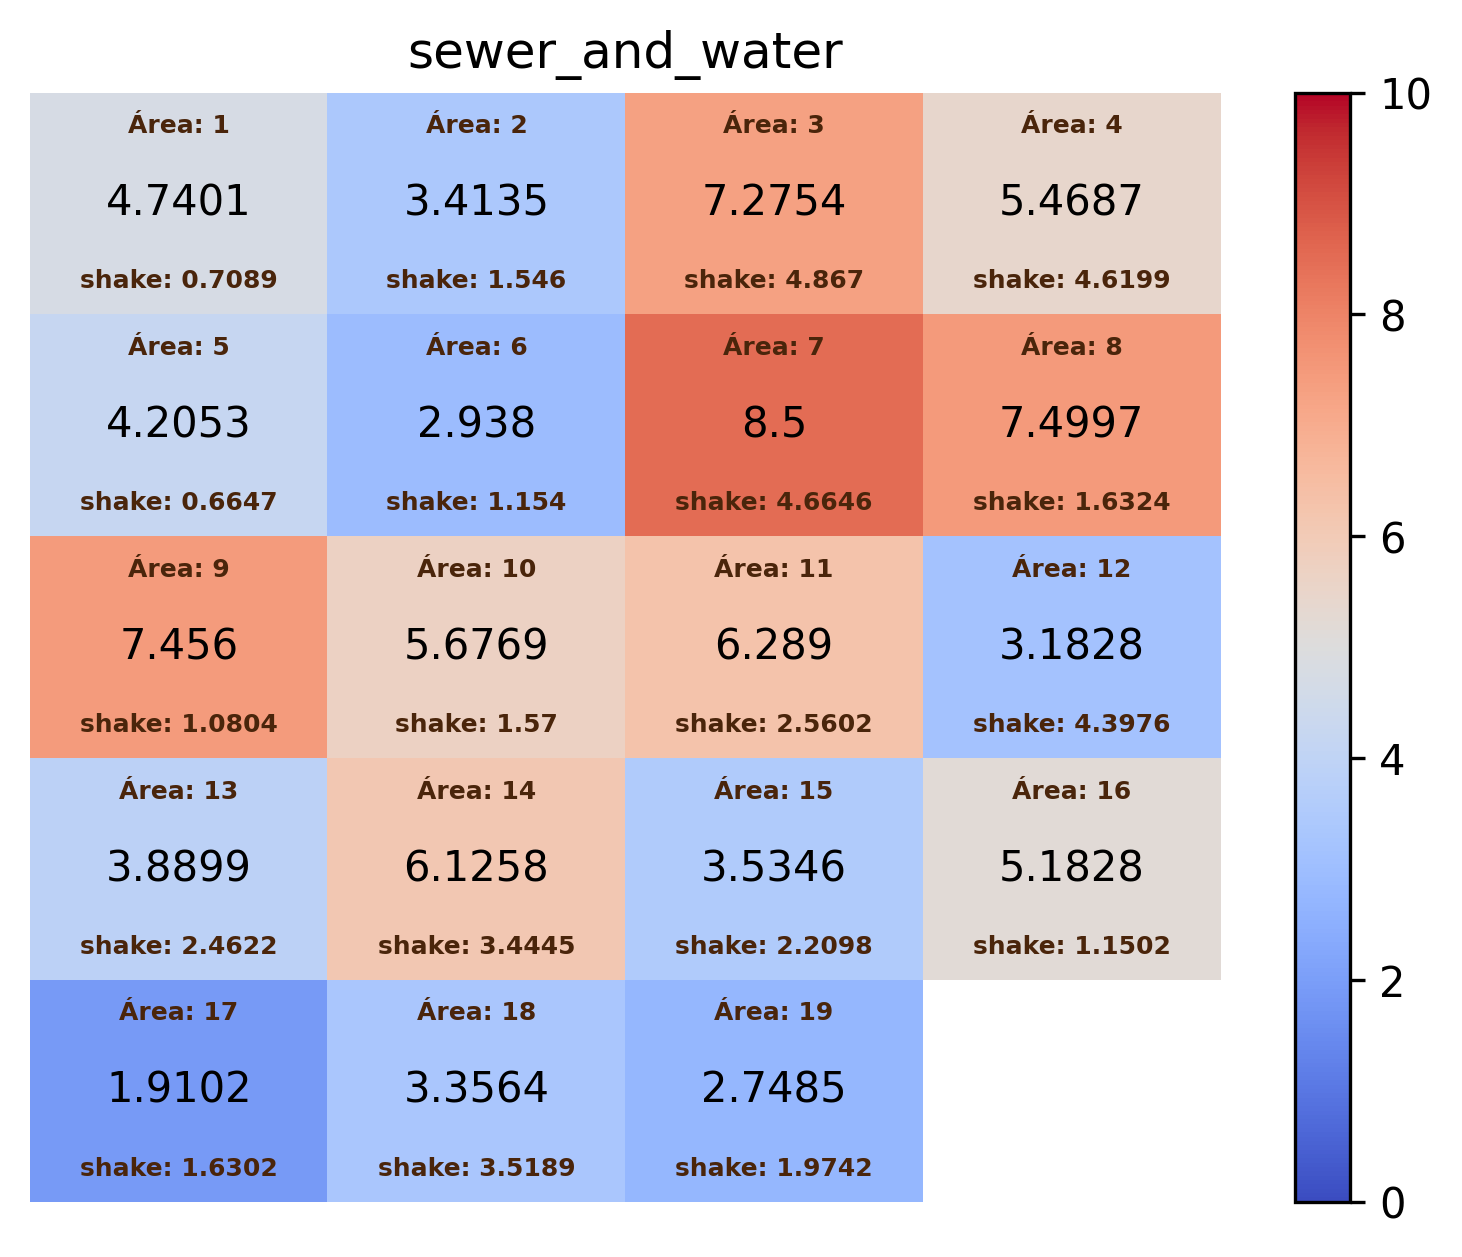
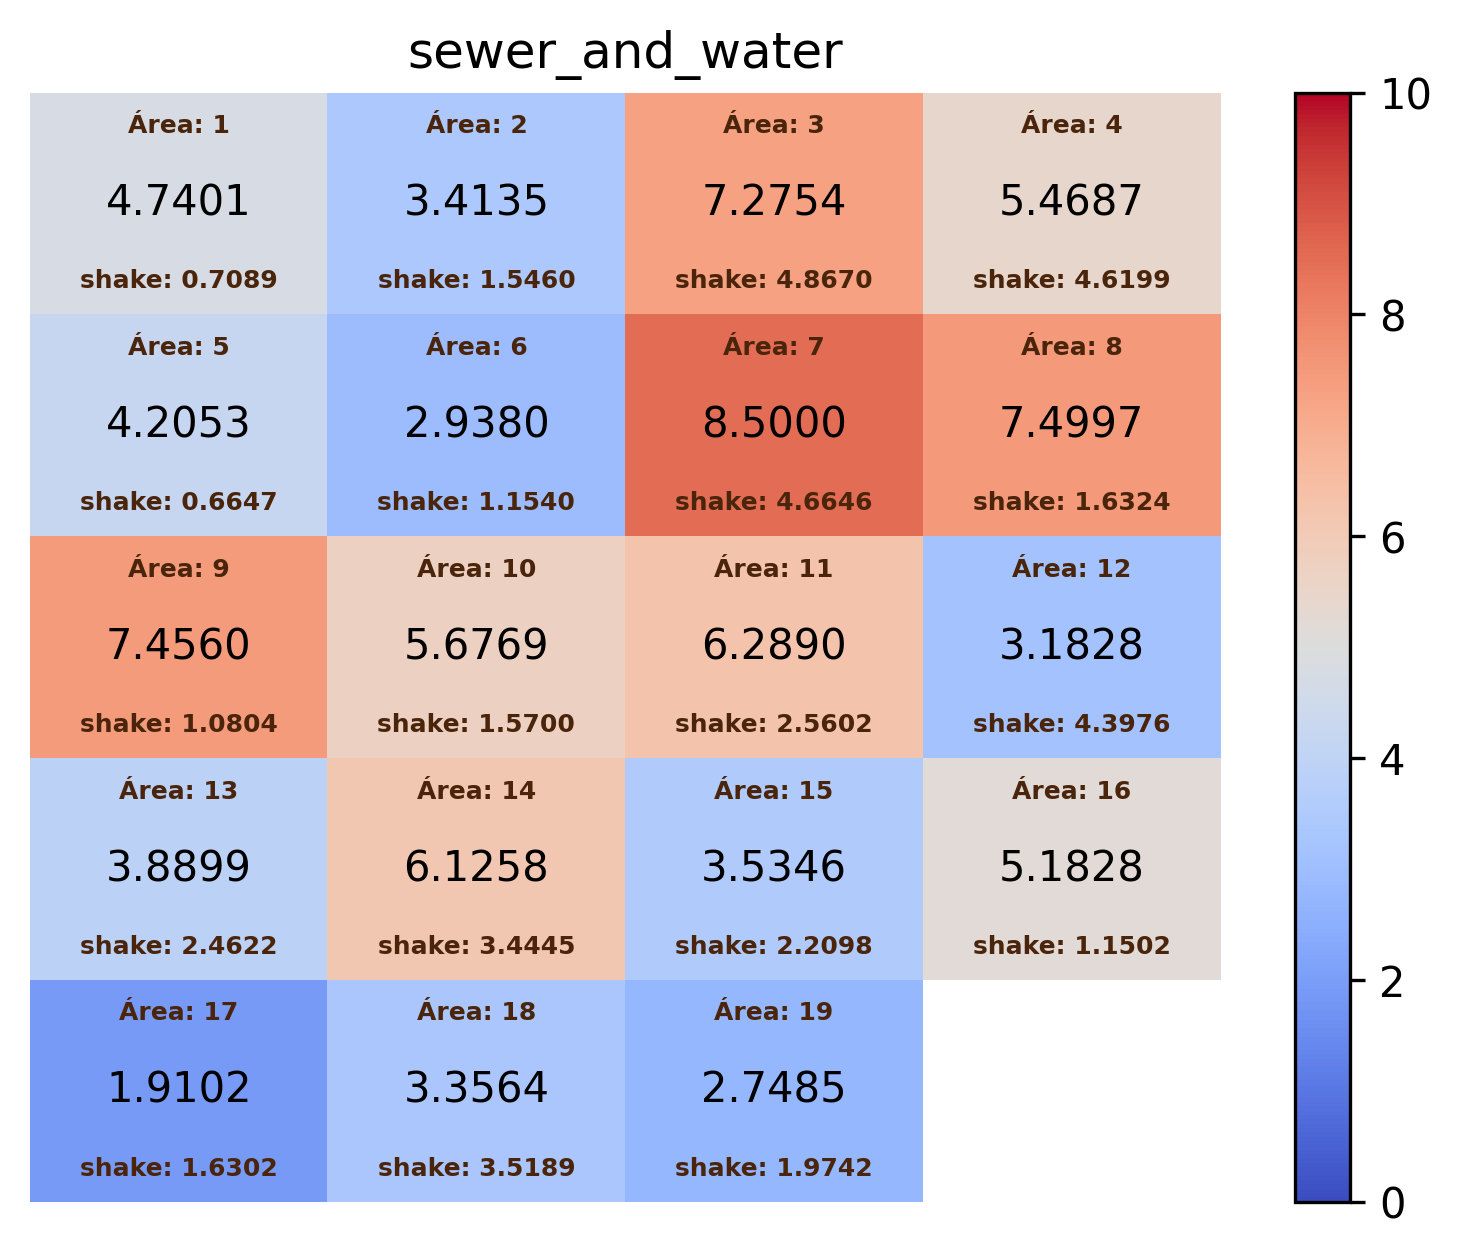
ta pronto

diff --git a/first_problem/heatmap_feedback.py b/first_problem/heatmap_feedback.py
@@ -1,34 +1,6 @@
 import numpy as np
 import matplotlib.pyplot as plt
 
-# ROW = 5
-# COLUMN = 4
-
-# # Dados
-# learning_rates = ['0.001', '0.005', '0.01']
-# batch_sizes = ['8', '16', '20', '32']
-
-# Matriz: linhas = learning rates, colunas = batch sizes
-# map_values = np.array([
-#     [0.504, 0.529, 0.788, 0.773],
-#     [0.879, 0.882, 0.882, 0.878],
-#     [0.900, 0.898, 0.897, 0.898]
-# ])
-
-# plt.figure(figsize=(7, 5))
-
-# heatmap = plt.imshow(map_values, aspect='auto')
-
-# plt.xticks(np.arange(len(batch_sizes)), batch_sizes)
-# plt.yticks(np.arange(len(learning_rates)), learning_rates)
-
-# plt.xlabel('Batch size')
-# plt.ylabel('Learning rate')
-# plt.title('teste')
-
-# cbar = plt.colorbar(heatmap)
-# cbar.set_label('mAP@0.5:0.95')
-
 def create_heatmap(column_name, matriz, shake_intensity=None):
     #cividis
     #coolwarm
@@ -44,11 +16,11 @@ def create_heatmap(column_name, matriz, shake_intensity=None):
                 continue
             
             # Escrita dos dados
-            plt.text(j, i, value, ha='center', va='center')
+            plt.text(j, i, f"{value:.4f}", ha='center', va='center')
             
             # Escrever localização
             plt.text(
-                j, 
+                j,
                 i - 0.35, 
                 f"Área: {(i*4+j) + 1}", 
                 ha='center', 
@@ -58,10 +30,13 @@ def create_heatmap(column_name, matriz, shake_intensity=None):
                 fontweight='bold'
             )
             
+            if shake_intensity is None:
+                continue
+            
             plt.text(
                 j, 
                 i + 0.35, 
-                f"shake: {shake_intensity[i][j]}", 
+                f"shake: {shake_intensity[i][j]:.4f}", 
                 ha='center', 
                 va='center',
                 fontsize=6,
@@ -69,32 +44,6 @@ def create_heatmap(column_name, matriz, shake_intensity=None):
                 fontweight='bold'
             )
 
-# for i in range(ROW):
-#     if i == 5:
-#         for j in range(3):
-#             valor = map_values[i, j]
-#             plt.text(j, i, f'{valor:.3f}', ha='center', va='center')
-
-#     for j in range(COLUMN):
-#         valor = map_values[i, j]
-#         plt.text(j, i, f'{valor:.3f}', ha='center', va='center')
-
-intensity_matrix = [
-    [0.7089, 1.5460, 4.8670, 4.6199],
-    [0.6647, 1.1540, 4.6646, 1.6324],
-    [1.0804, 1.5700, 2.5602, 4.3976],
-    [2.4622, 3.4445, 2.2098, 1.1502],
-    [1.6302, 3.5189, 1.9742, np.nan]
-]
-
-heat_matrix = [
-    [4.7401, 3.4135, 7.2754, 5.4687],
-    [4.2053, 2.9380, 8.5000, 7.4997],
-    [7.4560, 5.6769, 6.2890, 3.1828],
-    [3.8899, 6.1258, 3.5346, 5.1828],
-    [1.9102, 3.3564, 2.7485, np.nan]
-]
-
-create_heatmap("sewer_and_water", heat_matrix, intensity_matrix)
-plt.savefig('figures/sewer_and_water.png', dpi=300, bbox_inches='tight')
-plt.show()
+def save_heatmap(column_name, matriz, shake_intensity=None):
+    create_heatmap(column_name, matriz, shake_intensity)
+    plt.savefig(f'figures/{column_name}.png', dpi=300, bbox_inches='tight')

diff --git a/first_problem/mean_feedback_by_location.py b/first_problem/mean_feedback_by_location.py
@@ -1,5 +1,8 @@
 import csv
 from collections import defaultdict
+import numpy as np
+from heatmap_feedback import save_heatmap
+import matplotlib.pyplot as plt
 
 def mean_columns_by_location(csv_path):
 
@@ -11,7 +14,7 @@ def mean_columns_by_location(csv_path):
         result = {}
         
         for column_name in fieldnames:
-            if column_name == "time":
+            if column_name == "time" or column_name == "location":
                 continue
             totals = defaultdict(float)
             counts = defaultdict(int)
@@ -38,13 +41,25 @@ def mean_columns_by_location(csv_path):
             
         return result
 
+def convert_array_pos_into_matrix_pos(location):
+    return (location // 4, location % 4)
 
 if __name__ == '__main__':
     csv_file = 'mc1-reports-data.csv'
     result = mean_columns_by_location(csv_file)
 
-    for key, value in result.items():
-        print(f'Mean {key} by location:')
+    heat_dict = {}
+    for column_name, value in result.items():
+        heat_matrix = np.full((5, 4), np.nan)
+        print(f'Mean {column_name} by location:')
         for location, mean_column in sorted(value.items(), key=lambda item: int(item[0])):
             print(f'Location {location}: {mean_column:.4f}')
+            
+            i, j = convert_array_pos_into_matrix_pos(int(location)-1)
+            heat_matrix[i][j] = mean_column
         print()
+        heat_dict[column_name] = heat_matrix
+        
+    for column, matrix in heat_dict.items():
+        save_heatmap(column, matrix, heat_dict["shake_intensity"])
+        plt.clf()
